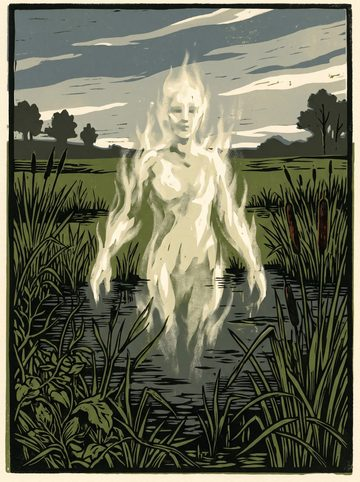
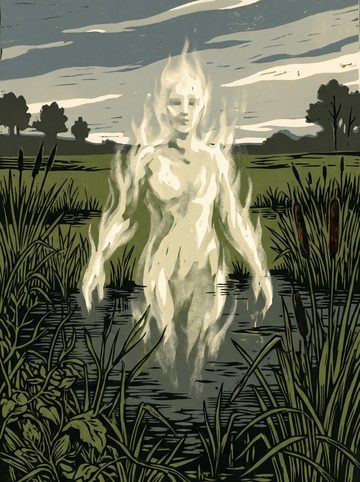
Writ & Ruin: nine portraits no longer show a strip of paper inside the card frame

diff --git a/writ-and-ruin/css/style.css b/writ-and-ruin/css/style.css
@@ -275,7 +275,7 @@ body.sheet-up { overflow: hidden; }
 .card[data-card="drover"] .card-pic { --pic-x: 85%; }          /* the drover, beside his cattle */
 .card[data-card="moorHound"] .card-pic { --pic-x: 80%; }       /* the hound's head */
 .card[data-card="oldBoar"] .card-pic { --pic-x: 95%; }         /* the snout and tusks */
-.card[data-card="stagOfThePass"] .card-pic { --pic-x: 40%; }   /* both antlers */
+.card[data-card="stagOfThePass"] .card-pic { --pic-x: 38%; }   /* both antlers */
 .card[data-card="starReader"] .card-pic { --pic-x: 80%; }      /* the star disc she holds up */
 .card[data-card="wallWarden"] .card-pic { --pic-x: 80%; }      /* the lantern */
 .card-pic.full { width: 128px; aspect-ratio: 3 / 4; }
